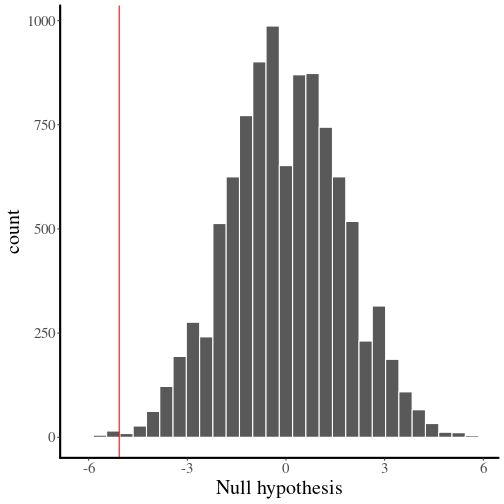
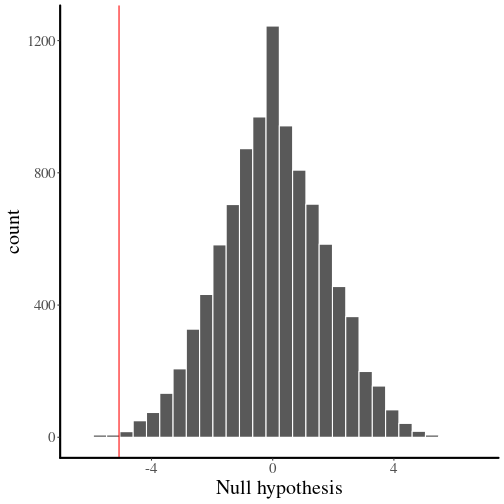
updated slides for module 3 and 4

diff --git a/Slides/Module3.html b/Slides/Module3.html
@@ -124,13 +124,13 @@ This is equivalent to randomly changing the sign of the difference (+/-)
 
 &lt;br&gt;
 
-* Calculate your statistic of interest (e.g., `\(\bar{x}_{Before} - \bar{x}_{After}\)`)
+* Calculate your statistic of interest (e.g., `\(\overline{x_{After} - x_{Before}}\)`)
 
 &lt;br&gt;
 
 1. Randomly assign each observation to one of the treatments (Before/After) (for a paired t-test this equivalent to multiplying by +1 or -1 with equal probability)
 
-2. Calculate your new statistic of interest (e.g., `\(\bar{x}_{Before} - \bar{x}_{After}\)`) under `\(H_0\)`. Save result.
+2. Calculate your new statistic of interest (e.g., `\(\overline{x_{After} - x_{Before}}\)`) under `\(H_0\)`. Save result.
 
 3. Go back to 1.
 
@@ -151,7 +151,7 @@ sample(x=c(-1,1), size=10, replace=T) #randomly sample 10 values from -1 and 1
 ```
 
 ```
-##  [1] -1 -1 -1  1  1  1 -1 -1 -1 -1
+##  [1]  1 -1  1  1 -1 -1 -1 -1 -1  1
 ```
 
 Sampling with replacement means that once a value is drawn from the original set, it can be drawn again.
@@ -177,7 +177,7 @@ syntax:
 
 
 ```r
-for (val in sequence)
+for(val in sequence)
 {
   statement to do stuff.
 }
@@ -223,7 +223,7 @@ class: inverse, middle
 ```r
 obs.stat &lt;- mean(diff.dat$Difference) 
 
-null.vec &lt;- vector('numeric', 1e4)
+null.vec &lt;-numeric(1e4)
 for(i in 1:length(null.vec)) {
   multiplier &lt;- sample(x=c(-1,1), size=length(diff.dat$Difference), replace=TRUE)
   null.vec[i] &lt;- mean(diff.dat$Difference*multiplier)
@@ -254,7 +254,7 @@ print(2*p.val) #double this for a two-sided test
 ```
 
 ```
-## [1] 0.2378
+## [1] 0.2288
 ```
 
 &lt;img src="Module3_files/figure-html/unnamed-chunk-15-1.png" style="display: block; margin: auto;" /&gt;
@@ -315,8 +315,7 @@ If we have samples from two populations and want to compare them the recipe is a
 ```r
 hotwings.dat &lt;- read.csv(file="../Data/hotwings.csv")
 ggplot(data=hotwings.dat) +
-  geom_histogram(aes(x=Hotwings), bins=15, col="white") +
-  facet_wrap(~Sex, ncol=1)
+  geom_boxplot(aes(x=Sex, y=Hotwings))
 ```
 
 ![](Module3_files/figure-html/unnamed-chunk-18-1.png)&lt;!-- --&gt;
@@ -348,7 +347,7 @@ print(p.val)
 ```
 
 ```
-## [1] 0.0036
+## [1] 0.0026
 ```
 ]
 
